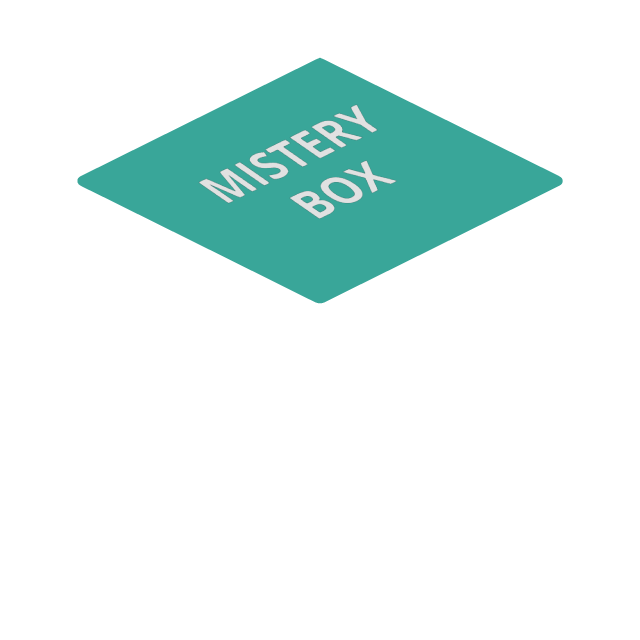
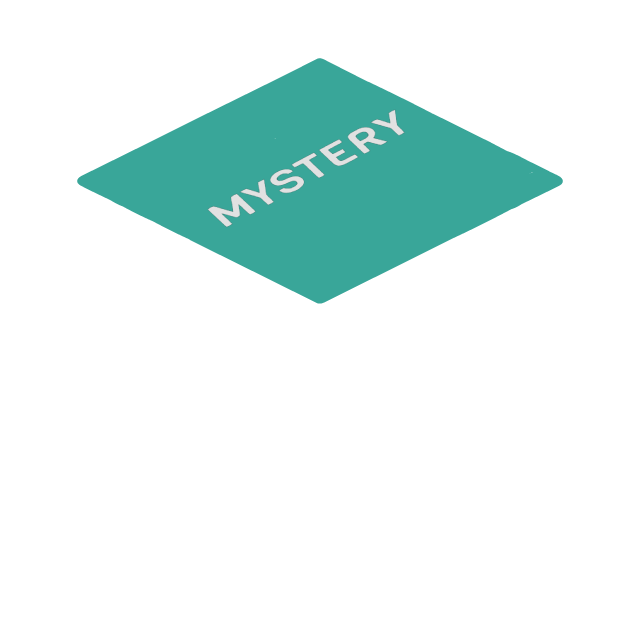
fix spell issue

Changed region(s): [[0.3125, 0.1562, 0.625, 0.375]]

diff --git a/components/Sidebar/SidebarContent.tsx b/components/Sidebar/SidebarContent.tsx
@@ -16,7 +16,7 @@ const LinkItems: readonly LinkItemProps[] = [
   { name: "Swap", to: "/swap", icon: FiRefreshCw },
   { name: "Pools", to: "/pools", icon: FiPieChart },
   { name: "Governance", to: "https://app.wynddao.com", icon: FiUsers },
-  { name: "Mistery Box", to: "/mistery-box", icon: FiPackage },
+  { name: "Mistery Box", to: "/mystery-box", icon: FiPackage },
 ];
 
 interface SidebarContentProps extends BoxProps {

diff --git a/components/MysteryBox/index.tsx b/components/MysteryBox/index.tsx
@@ -9,7 +9,7 @@ const floating = keyframes`
   to { transform: translateY(0.5rem); }
 `;
 
-export default function MisteryBoxContainer() {
+export default function MysteryBoxContainer() {
   const animation = usePrefersReducedMotion() ? undefined : `${floating} 1.5s ease-in-out infinite alternate`;
   const [open, setOpen] = useState<boolean>(false);
 

diff --git a/app/mystery-box/page.tsx b/app/mystery-box/page.tsx
@@ -1,0 +1,5 @@
+import MysteryBoxContainer from "../../components/MysteryBox";
+
+export default function Page() {
+  return <MysteryBoxContainer />;
+}
